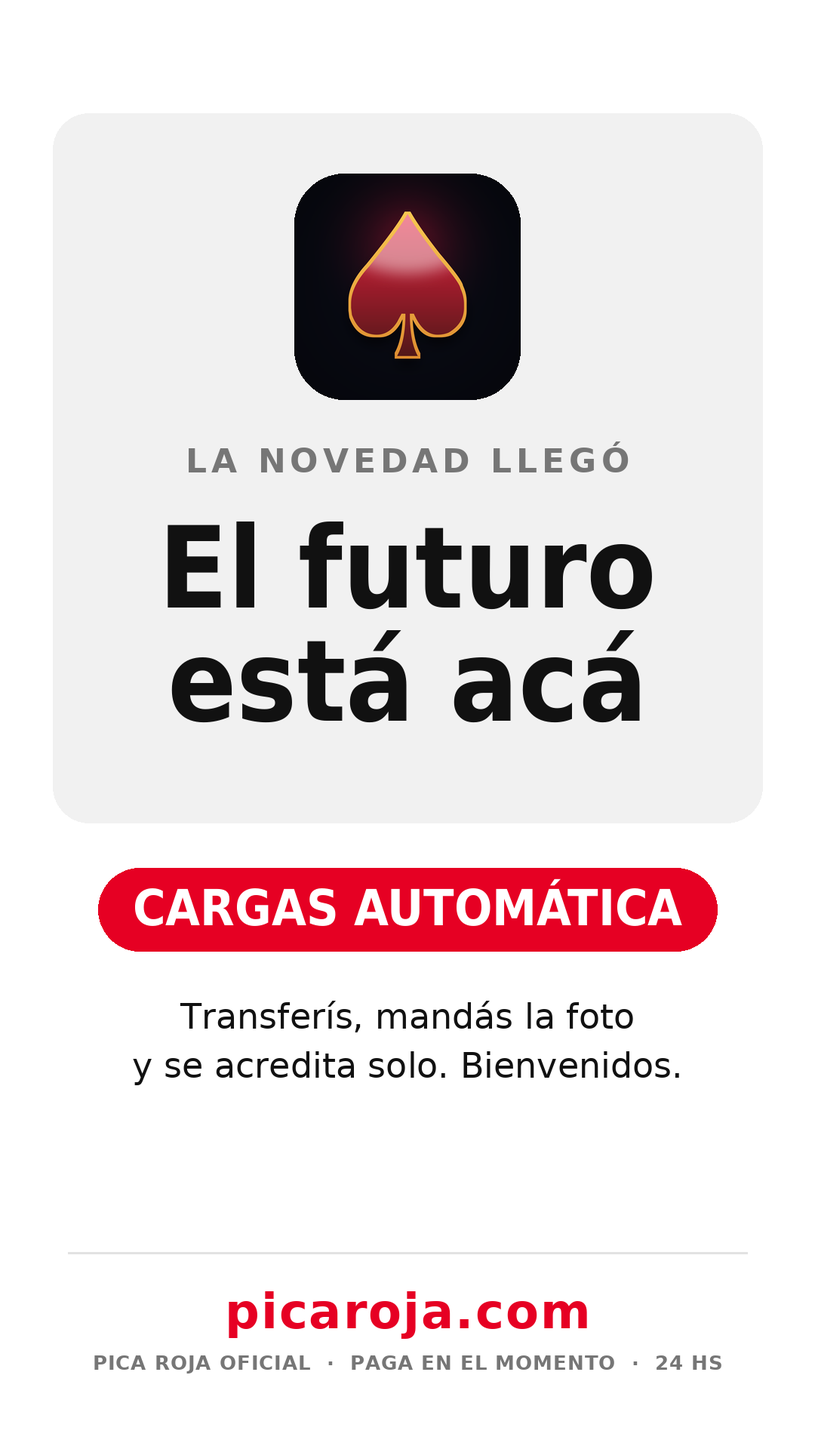
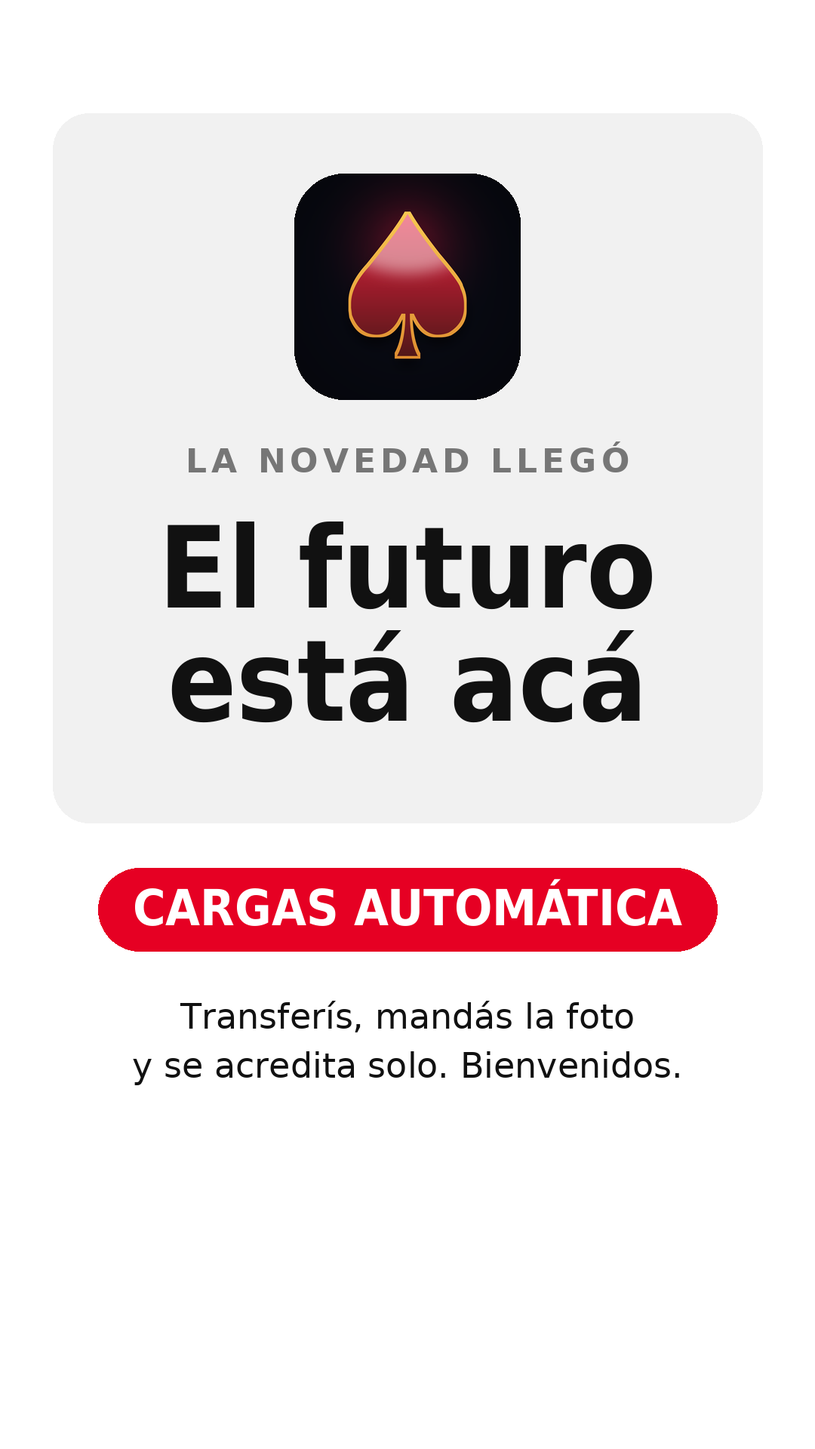
content(historias): imágenes rehechas sin pie interno (franja inferior libre), Soporte con Martín/Sofía/Agustina; visor con sólo el nombre arriba — WORKLOG #456, SW v325

Changed region(s): [[0.275, 0.875, 0.7333, 0.9688], [0.1222, 0.9375, 0.2444, 0.9688], [0.825, 0.9375, 0.8861, 0.9688]]

diff --git a/public/firebase-messaging-sw.js b/public/firebase-messaging-sw.js
@@ -34,7 +34,7 @@ try {
 // ============================================
 // CONFIGURACIÓN DE CACHÉ
 // ============================================
-const CACHE_VERSION = 'v324'; // v324: historias: logo + PICA ROJA arriba a la izquierda (Instagram), sello de abajo en blanco sin pildora (#455) // v323: barras de progreso de historias tipo Instagram (#454) // v322: historias tipo WhatsApp: foto completa, sello de marca al pie, sin bloque negro (#453) // v321: visor de historias: marca arriba, texto abajo sobre fondo negro desgastado sin pisar la foto (#452) // v320: modal 'Tu opinion' con el estilo de la app (#450) // v319: Menu facil con avatar + nombre desplegable (ver mas); sin 'GIROX - LA APP QUE PAGA' en la entrada (#448/#449) // v318: detalle de reembolsos en inicio solo con el % diario (#447) // v317: selector de reembolsos: tres botones rojos con letra blanca e iconos de linea (#446) // v316: iconos con mas presencia (trazo grueso, duotono, caja rojo claro) (#445) // v315: alerta del banco sin pausar si el panel lo configura asi (#443) // v314: alerta 'banco con fallas' en el retiro (#442) // v313: Inicio post-login con iconos de linea (entrada, menu facil, selector, instalar app) (#441) // v312: iconos de linea (Pinterest) en Info y Perfil en vez de emojis (#440) // v311: Info: texto de plataformas en su linea, solo Girox/Ganamos/Jugaygana en negrita (#439) // v310: Info: texto de 'La plataforma que quieras' en negrita (#438) // v309: 'Cerrar sesion' en Perfil tambien para diego294290 (#437) // v308: parte superior del inicio un poco mas abajo, centrada con la de abajo (#436) // v307: 'Pronto' en vez de 'Proximamente' en Elegi donde jugar (#435) // v306: fila prioritaria 'Carga automatica y atencion personalizada' arriba de los beneficios (#434) // v305: 'CARGAS Y PAGOS LAS 24 HS SIN LIMITES' bajo el titulo (#433) // v304: beneficios con texto completo en tres filas (VIP PICA ROJA, reembolsos diarios/semanales/mensuales, referidos) (#432) // v303: mas espacio entre bloques del inicio; 'Jugaygana' con J mayuscula (#431) // v302: inicio en exactamente una pantalla de telefono (sin scroll, opiniones con el alto sobrante), sin burbuja de Soporte (#430) // v301: inicio mas compacto para que las opiniones entren en la pantalla principal (#429) // v300: recuadro 'Elegi donde jugar' debajo de Registrarse (jugaygana en minuscula), sin linea de estrellas, opiniones visibles (#428) // v299: inicio solo 'Completa tu nombre para registrarte' + 'Registrarse ya'; sin olvide clave / soporte / ya tengo cuenta (#427) // v298: paso 'Te registraste con exito' con usuario y clave antes de entrar (#426) // v297: la entrada con nombre es LA forma de registro; sin 'Crear mi cuenta' (#425) // v296: ingreso con tarjetas de beneficios (VIP, reembolsos, elegi donde jugar, referidos) con iconos de linea (#424) // v295: Girox nunca 'Proximamente' en la fila del ingreso (#423) // v294: fila de las 3 plataformas en el ingreso, Ganamos y jugaygana 'Proximamente' (#423) // v293: entrada rapida automatica para quien llega por link de publicidad (#422) // v292: entrada rapida solo con el nombre cuando el registro esta desactivado en el panel (#421) // v291: boton de ingreso 'Iniciar sesion', mas chico (#420) // v290: ingreso mas compacto arriba, reseñas con comentario visible, burbuja de Soporte chica en la punta (#419) // v289: registro siempre visible (tambien con link de publicista), 'Olvide mi contraseña', registro = usuario + clave + telefono + SMS, 'Confirmar y entrar' (#418) // v288: ingreso como estaba (login visible + Crear mi cuenta), reseñas deslizandose, historias como anillo arriba a la derecha (#417) // v287: ingreso sin chips ni ticker; historias publicadas + opinion de la gente (reseña que rota) (#416) // v286: ingreso en UNA pantalla estilo registro de app (sin scroll, explicacion resumida, linea de confianza) (#415) // v285: ingreso como REGISTRO (SMS), soporte para visitantes (burbuja + panel), ticker sobrio con el final del nombre visible (#414) // v284: 'Cerrar sesion' al pie de Perfil solo para lalodj (#412) // v283: botones Comprobante aqui / Retirar premio a mitad y mitad sin desbordar (#409) // v282: Info: 'La plataforma que quieras' (texto nuevo, jugaygana en minuscula) (#407) // v281: Perfil: el link de la pagina va recto debajo del titulo, en una linea (#406) // v280: fueguito: requisito por MONTO cargado en N dias (no por cantidad de cargas) en textos del home y del modal (#405) // v279: Perfil reordenado (Canjear codigo arriba, Menu, Nocturno + Notificaciones, datos + Capturar, Fueguito, resto) y mas compacto (#404) // v278: etiquetas Telegram / Historias de la barra mas chicas, sin corte (#403) // v277: la barra 'Instala la app' pendiente ya no tapa Comprobante aqui / Retirar premio (#402) // v276: Soporte: la presentacion se va cuando el cliente ya escribio; cierre automatico a las 6 h sin respuesta y el chat arranca de cero para el (#401) // v275: Perfil: modo nocturno arriba con Activar/Desactivar, filas usuario/clave/pagina en una linea, Ocultar debajo de Copiar; nocturno: texto --p-inv sobre fondos negros (#399) // v274: modo nocturno solo dentro de Perfil, sin boton en la barra (#396) // v273: modo nocturno de la app (Perfil + barra, #392), Perfil con codigo de referido y clave visible (#393), ruleta sin probabilidades (#390), Retirar premio verde + 'Comprobante aqui' (#391), Info en tarjetas con titulo recuadrado (#394) // v272: 'Retirar premio' con minimo y 'pago automatico' afuera; textos de los botones editables // v271: chips de Soporte mandan solos; Cargar/Retirar responden con boton al sector // v270: plataformas de carga automatica en una fila de cuadrados // v269: codigo SMS en cada retiro // v268: pantalla de ingreso nueva (marca, servicio, reembolsos, plataformas, carga minima, resenas) // v267: pestanas de plataformas iguales (3 cuadrados) + Soporte independiente del chat viejo // v266: retiro minimo $10.000 configurable + 'pago automatico' en el modal de retiro // v265: JUGAYGANA como tercera plataforma (Proximamente) // v264: Soporte paralelo (chat nuevo desde hoy, respuestas firmadas por la persona de turno) // v263: carga automatica: aviso de comprobante duplicado, acuse 'recibimos tu comprobante', franja 'carga pendiente' y rechazo // v262: Soporte 100% soporte (sin cartel de carga automatica ni botones extra; bienvenida nueva) // v261: ruleta: como se desbloquea (carga minima), premio mayor 1 cada 1000, estado bloqueado // v260: Carga manual -> SOPORTE (Martin se presenta, chat con el estilo de la pagina) // v259: ruleta con el estilo nuevo + aviso 'promocion hasta diciembre' en reembolsos // v258: nombre de la app 'PICA ROJA oficial' + logo real de Telegram en la barra // v257: tema Pinterest (blanco, grises, rojo) en toda la app salvo Carga manual // v256: Info del servicio en un solo mensaje, sin app/notificaciones (quedan en Perfil) // v255: el selector facil/completo pregunta en cada arranque y tras 10 min afuera; boton 'Pasar al menu completo' // v254: MENU FACIL (selector al entrar + pantalla de 6 accesos grandes) // v253: al entrar a Carga manual el CBU aparece solo // v252: tarjeta CBU en el chat con 'Por favor enviar comprobante aqui' // v251: letras de la barra de arriba mas chicas, sin cortes // v250: fix endpoint del Telegram de la barra // v249: Telegram a la izquierda, colores en las puntas, 'Historias' mas chico // v248: HISTORIAS (anillo arriba a la derecha + visor) // v247: resenas: 'Deja tu opinion' fija y chica, el resto desliza // v246: Info del servicio con el reembolso diario // v245: tarjeta Reembolso del inicio con el % diario (25) // v244: icono nuevo (pica) + nombre CARGAS AUTOMATIC // v243: titulo/nombre de la app 'CARGAS AUTOMATICA' // v242: tarjeta del fueguito mas baja // v241: fotos del inicio mas grandes // v240: regla del fueguito en una linea // v239: 'Proximamente' visible debajo de Ganamos (tarjeta y pestana del Inicio) // v238: inicio sin puntitos ni etiqueta; boton de cargar abajo de la foto // v237: referidos 5% (texto desde el server) // v236: logo de Ganamos (pica violeta) + promedio de resenas con estrella parcial // v235: reembolso DIARIO de vuelta (25%), semanal 3%, mensual 1%, cartel NOVEDAD en Inicio // v234: JS/CSS network-first (los deploys se ven en la primera apertura); regla del fueguito arriba del modal // v233: fueguito: 'minimo 10 cargas entre racha y racha' visible aunque el server no mande el valor // v232: premios del fueguito x5 en los textos por defecto // v231: texto del fueguito: minimo 5 cargas entre racha y racha // v230: fueguito: la condicion se ve adentro del modal (estaba oculta), minimo 5 cargas por racha // v229: carga manual: avatar de asistente mujer y 'Escribi aqui' en el campo // v228: sin parpadeo del login con sesion guardada; verificacion general sin errores // v227: sin el boton 'Link casino aqui' en carga auto y manual // v226: regla del fueguito (minimo 10 cargas por racha, si no vuelve a 0) a la vista en la tarjeta // v225: carga auto: el panel scrollea adentro, los botones de abajo no se enciman // v224: boton rojo encima de la foto (sin reservar lugar) y sin leyenda abajo // v223: recuadro de fotos al espacio que sobra: Inicio sin deslizar, opiniones a la vista // v222: sin el boton LINK CASINO en el Inicio // v221: puntos del carrusel arriba del boton rojo (no detras de LINK CASINO) // v220: ajuste y centrado por modelo (chico/estandar/grande, tablet centrada, bajos, safe areas) en Inicio, carga auto y manual // v219: carga automatica ocupa toda la pantalla y escala en telefonos altos (Samsung A56 etc.) // v218: fotos del Inicio con la version pegada al link (sin cache viejo) // v217: fotos del Inicio con nombres nuevos (g1..g5) y en el orden pedido; sin fotos anteriores // v216: 'LINK CASINO AQUI · www.1girox.com' como boton en el Inicio y en carga auto/manual // v215: sin el boton 'Ver completas' en las fotos // v214: boton 'Link plataforma' abajo de carga auto y carga manual (abre el casino para jugar) // v213: fotos nuevas del carrusel del Inicio (5 grillas de juegos) // v212: fondo como estaba antes (se quitaron los cambios de tono #321/#325) // v211: fondo un poco mas oscuro y barra superior con el mismo fondo // v210: leyenda del carrusel = link de la plataforma (www.1girox.com) que abre aparte adentro de la app // v209: boton 'Ver completas / Achicar' en las fotos del Inicio (pantalla completa) // v208: fotos completas en el Inicio (recuadro con altura propia) y boton chiquito sobre el final de la foto // v207: fondo azul profundo (mas claridad), vidrio un poco mas claro // v206: boton de cargar en una linea, mas bajo // v205: etiqueta 'FOTO ILUSTRATIVA · aca no se juega' en cada foto y leyenda clara // v204: foto principal de la pagina completa de Girox primera en el carrusel, con recuadro fino tipo pantalla // v203: opiniones de jugadores con mas vida (vidrio, estrellas doradas, insignia de promedio) // v202: sin la linea 'Vista ilustrativa' en el Inicio // v201: boton grande 'Para cargar ahora mismo · apreta aqui' debajo de las fotos // v200: fotos del Inicio a todo el ancho con recuadro y fondo desenfocado // v199: tests tambien con la app instalada para el usuario de prueba // v198: Inicio con carrusel de fotos ilustrativas de Girox (cada 2 s) en vez de la pagina embebida // v197: numero de version visible en Perfil (app vNNN) // v196: con la app instalada no hay test ni para lalodj (funciona como app real) // v195: Inicio siempre al entrar; carga minima tambien en el paso 2 y en el cartel del chat // v194: cabecera del chat 'Carga manual' con asistente // v193: perfil con avatar (recuadro de usuario, selector de iconos, iconos de nivel que se desbloquean) // v192: recarga automatica al entrar una version nueva; tarjetas Girox/Ganamos compactas en carga auto; saldo con el numero abajo // v191: carga minima $5.000 siempre visible (linea en la tarjeta + boton), aun sin redeploy // v190: Girox siempre elegible (nunca 'Proximamente') // v189: Girox siempre seleccionable; Ganamos como estaba (pestaña abre su pagina) con etiqueta Proximamente // v188: carga minima $5.000 en el boton de comprobante y el paso 1 (configurable); iconos de casino discretos y patron tenue de fondo // v187: aviso premium 'la unica app que paga todo en el momento' en el Inicio; Ganamos visible como 'Proximamente' (no seleccionable hasta tener API) // v186: Jugar ahora abre la plataforma afuera con autologin y linea finita 'Volver a cargas'; tests solo para el usuario de prueba; textos segun plataformas habilitadas (Ganamos apagada) // v185: 'Adjuntar comprobante aqui'; un solo cartel (Jugar ahora + extra por instalar) y barra pendiente de punta a punta; fueguito del inicio como estaba, premios plegables y condicion abajo en el modal; niveles VIP abren la escalera (tambien en el test); sin Soporte en vivo en Perfil // v184: niveles VIP escalera 1win (19 niveles) con la plata que desbloquea cada nivel // v183: Info sin opiniones ni ruleta; nivel VIP al lado del saldo con la app instalada (+test); fueguito con barra de niveles y regla de cargas minimas // v182: oferta por instalar la app = % EXTRA sobre la carga (50%), 'cargarlo ahora' o 'despues de jugar' // v181: Informacion del servicio con el estilo de la barra de arriba (recuadros de vidrio, texto grande) // v180: sin globo flotante de soporte // v179: barra de arriba 'Carga auto' // v178: 'Recomendado' debajo de Girox // v177: carga gratis — 'la instalo despues' pinta el boton grande de abajo tambien en test y sin depender del server // v176: pasos 1 y 2 de 'Carga aca' en recuadros, compactos (sin scroll) // v175: carga GRATIS por instalar la app en la primera carga (hoja de oferta, boton grande pendiente, reclamo desde la app instalada, test) // v174: 'Carga aca' centrada con paso 2 (adjunta la foto abajo); boton 'Carga aqui (adjunta la foto aqui)' // v173: opiniones deslizan solas (pausa al tocar) // v172: carrusel de opiniones con 30 reseñas al azar por apertura // v171: vuelven las paginas embebidas al entrar (sin modo logo) // v170: Inicio en modo logo (sin cargar la web), 'Ver pagina' desde el 2º ingreso, texto explicativo grande con links, test de 2º ingreso // v169: nota 'vista ilustrativa · para cargar usa la barra de arriba' en el Inicio // v168: cartel 'Jugar ahora' al acreditarse la carga (abre la plataforma adentro de la app) + boton test chiquito en carga manual y automatica // v167: Perfil en estilo oscuro // v166: resenas discretas (sin fondo blanco) con 'Deja tu opinion' primero; sin aviso de verificar telefono // v165: toda la barra con el estilo del Inicio (iconos SVG, vidrio, corte diamantado); Fueguito diario arriba de la carga automatica // v164: carga automatica con alias+titular y explicacion de plataformas (sin Entrar); Fueguito diario entre Cargar y Retirar; cartel del chat corto 'Recomendable' + Ir a carga automatica // v163: Inicio moderno/futurista (sin retro); resenas tipo Google deslizantes al pie del Inicio; Perfil con usuario/clave/link protagonistas + capturar // v162: Inicio al centro, separado y retro; reembolso / ruleta / referidos arriba del Inicio; carga automatica sencilla // v161: barra de arriba Inicio / Carga automatica / Carga manual / Info / Perfil (usuario+clave, cambiar clave, notificaciones, canal, codigo, instalar, fueguito); sin botones abajo en la entrada // v160: pantalla de entrada — Girox abierto adentro, Ganamos para cambiar, Carga manual / Carga automatica // v159: chat estilo WhatsApp como pantalla principal + cartel 'Servicio completo' con menu deslizante (Ver todo) que despliega la app completa // v158: circulos de la cabecera mas chicos // v157: cabecera apenas mas baja // v156: franja del saldo a la mitad de alto // v155: Instalar app (IMPORTANTE) al lado del saldo; abajo Referidos + Como funciona en una linea // v154: app instalada → casino adentro con carga rapida en formato CARGA (descartable); navegador → aparte con barra Volver // v153: el casino se abre APARTE en /jugar.html con barra 'Volver a la app' (login por API; Ganamos su web; prueba = home publica) // v152: Android sin prompt — info con boton 'Apreta aca para abrir en Google Chrome' (link de acceso directo) // v151: bono de nivel VIP a reclamar con cartel de felicidades y eleccion de plataforma; home compactada en una pantalla; saldo arriba // v150: niveles VIP sin plata — solo nivel y porcentajes // v149: 'Recomendado' en rojo en el recuadro de Girox // v148: Info del servicio — app+notis en una linea arriba, titulo chico, ruleta plegada en vez de niveles VIP // v147: tarjeta de nivel VIP con barra de progreso y escalera desbloqueable debajo de Guarda tu acceso // v146: circulo de arriba 'Soporte aqui' con icono de chat (sin logo de Girox) // v145: Retirar premio en una linea, fila de acciones a la mitad de alto // v144: niveles VIP plegados debajo de reseñas en Info del servicio // v143: instalar app — Android con prompt instala directo, iPhone/otros ven los pasos, Instagram en Android abre Chrome; el botón dice qué va a pasar // v142: fix div sobrante de la tarjeta de carga; Retirar 'se retira automaticamente'; circulo de arriba restaura la burbuja // v141: tarjeta de carga sin paso 2; Cargar aqui dice adjuntar comprobante / se carga automaticamente // v140: prueba = página principal de cada casino; burbuja con ícono de chat y X adentro // v139: Probá las plataformas mejor presentado; modo prueba sin la carga rápida dentro del casino // v138: fila de reembolsos sin recortes + modal de reembolso simple estilo cambio de clave // v137: burbuja de soporte compacta (foto), se saca con X y queda arriba al lado del fueguito // v136: cobro de referidos desde la app, aviso de clave inicial, tarjetas de plataforma chicas con logo (Ganamos violeta) // v135: referidos — como funciona plegado, el resto en una pantalla // v134: fila Cargar aqui (adjuntar comprobante) + Retirar mi premio en rojo // v133: info del servicio — reseñas plegadas arriba, niveles VIP detallados abajo, una hoja centrada // v132: pruebas de plataforma y Ganamos SIEMPRE dentro de la app (recuadro embebido), nada de Chrome // v131: pruebas de plataforma (Girox/Ganamos en Chrome) dentro del soporte // v130: 'Guardá tu acceso a la app' plegable debajo de reembolsos con la captura adentro // v129: fueguito resumido (racha + reclamar + premios) // v128: '¿Dónde querés jugar?' arriba del CBU — tocar = elegir (queda fija), Entrar abre con sesión // v127: burbuja flotante 'Soporte en vivo aquí' (arrastrable, minimizable, abierta al entrar) en vez de la fila; campana y fueguito en los círculos de arriba // v126: info del servicio nueva (por qué elegirnos, reembolsos NOVEDAD, ruleta), reembolsos verdes 'Cobrá tu reembolso acá', ruleta del home, captura solo link/usuario/clave // v125: carga en 2 pasos (CBU → comprobante, acceso secundario) + RETIRAR verde grande con brillo // v124: link de la app completo en la tarjeta de carga // v123: rojo de marketing, arriba al mínimo, reembolsos a la mitad, plataforma FIJA, cómo funciona separado abajo, modales en formato nuevo // v122: barra de soporte sin cortes en pantallas angostas // v121: tema diamante/futurista (vidrio, cian/violeta, cortes diamantados, Montserrat) — chau serif // v120: cabecera de círculos (Canal/Info/Código/Instalar/Clave) sin menú desplegable, carga compacta, barra del casino con plataformas + volver al menú de cargas, estilo premium negro/dorado // v119: home limpia — chau bono por instalar la app, cómo funciona plegado arriba, barra inferior REFERIDOS / INSTALAR APP, explicación completa en el chat // v118: HOME 2.0 — carga automática al frente (CBU/alias/datos de acceso/captura), chat como SOPORTE arriba, plataformas para elegir dónde jugar, cómo funciona el servicio, reembolsos compactos // v117: multi-plataforma — botones "¿dónde querés jugar?" (Girox / Ganamos) y link externo en los mensajes de sistema // v116: Información del Servicio y mini-tarjeta muestran el % vigente del bono por instalar la app (chau 100% fijo)
+const CACHE_VERSION = 'v325'; // v325: historias rehechas sin pie interno (franja inferior libre), Soporte con los 3, arriba solo el nombre (#456) // v324: historias: logo + PICA ROJA arriba a la izquierda (Instagram), sello de abajo en blanco sin pildora (#455) // v323: barras de progreso de historias tipo Instagram (#454) // v322: historias tipo WhatsApp: foto completa, sello de marca al pie, sin bloque negro (#453) // v321: visor de historias: marca arriba, texto abajo sobre fondo negro desgastado sin pisar la foto (#452) // v320: modal 'Tu opinion' con el estilo de la app (#450) // v319: Menu facil con avatar + nombre desplegable (ver mas); sin 'GIROX - LA APP QUE PAGA' en la entrada (#448/#449) // v318: detalle de reembolsos en inicio solo con el % diario (#447) // v317: selector de reembolsos: tres botones rojos con letra blanca e iconos de linea (#446) // v316: iconos con mas presencia (trazo grueso, duotono, caja rojo claro) (#445) // v315: alerta del banco sin pausar si el panel lo configura asi (#443) // v314: alerta 'banco con fallas' en el retiro (#442) // v313: Inicio post-login con iconos de linea (entrada, menu facil, selector, instalar app) (#441) // v312: iconos de linea (Pinterest) en Info y Perfil en vez de emojis (#440) // v311: Info: texto de plataformas en su linea, solo Girox/Ganamos/Jugaygana en negrita (#439) // v310: Info: texto de 'La plataforma que quieras' en negrita (#438) // v309: 'Cerrar sesion' en Perfil tambien para diego294290 (#437) // v308: parte superior del inicio un poco mas abajo, centrada con la de abajo (#436) // v307: 'Pronto' en vez de 'Proximamente' en Elegi donde jugar (#435) // v306: fila prioritaria 'Carga automatica y atencion personalizada' arriba de los beneficios (#434) // v305: 'CARGAS Y PAGOS LAS 24 HS SIN LIMITES' bajo el titulo (#433) // v304: beneficios con texto completo en tres filas (VIP PICA ROJA, reembolsos diarios/semanales/mensuales, referidos) (#432) // v303: mas espacio entre bloques del inicio; 'Jugaygana' con J mayuscula (#431) // v302: inicio en exactamente una pantalla de telefono (sin scroll, opiniones con el alto sobrante), sin burbuja de Soporte (#430) // v301: inicio mas compacto para que las opiniones entren en la pantalla principal (#429) // v300: recuadro 'Elegi donde jugar' debajo de Registrarse (jugaygana en minuscula), sin linea de estrellas, opiniones visibles (#428) // v299: inicio solo 'Completa tu nombre para registrarte' + 'Registrarse ya'; sin olvide clave / soporte / ya tengo cuenta (#427) // v298: paso 'Te registraste con exito' con usuario y clave antes de entrar (#426) // v297: la entrada con nombre es LA forma de registro; sin 'Crear mi cuenta' (#425) // v296: ingreso con tarjetas de beneficios (VIP, reembolsos, elegi donde jugar, referidos) con iconos de linea (#424) // v295: Girox nunca 'Proximamente' en la fila del ingreso (#423) // v294: fila de las 3 plataformas en el ingreso, Ganamos y jugaygana 'Proximamente' (#423) // v293: entrada rapida automatica para quien llega por link de publicidad (#422) // v292: entrada rapida solo con el nombre cuando el registro esta desactivado en el panel (#421) // v291: boton de ingreso 'Iniciar sesion', mas chico (#420) // v290: ingreso mas compacto arriba, reseñas con comentario visible, burbuja de Soporte chica en la punta (#419) // v289: registro siempre visible (tambien con link de publicista), 'Olvide mi contraseña', registro = usuario + clave + telefono + SMS, 'Confirmar y entrar' (#418) // v288: ingreso como estaba (login visible + Crear mi cuenta), reseñas deslizandose, historias como anillo arriba a la derecha (#417) // v287: ingreso sin chips ni ticker; historias publicadas + opinion de la gente (reseña que rota) (#416) // v286: ingreso en UNA pantalla estilo registro de app (sin scroll, explicacion resumida, linea de confianza) (#415) // v285: ingreso como REGISTRO (SMS), soporte para visitantes (burbuja + panel), ticker sobrio con el final del nombre visible (#414) // v284: 'Cerrar sesion' al pie de Perfil solo para lalodj (#412) // v283: botones Comprobante aqui / Retirar premio a mitad y mitad sin desbordar (#409) // v282: Info: 'La plataforma que quieras' (texto nuevo, jugaygana en minuscula) (#407) // v281: Perfil: el link de la pagina va recto debajo del titulo, en una linea (#406) // v280: fueguito: requisito por MONTO cargado en N dias (no por cantidad de cargas) en textos del home y del modal (#405) // v279: Perfil reordenado (Canjear codigo arriba, Menu, Nocturno + Notificaciones, datos + Capturar, Fueguito, resto) y mas compacto (#404) // v278: etiquetas Telegram / Historias de la barra mas chicas, sin corte (#403) // v277: la barra 'Instala la app' pendiente ya no tapa Comprobante aqui / Retirar premio (#402) // v276: Soporte: la presentacion se va cuando el cliente ya escribio; cierre automatico a las 6 h sin respuesta y el chat arranca de cero para el (#401) // v275: Perfil: modo nocturno arriba con Activar/Desactivar, filas usuario/clave/pagina en una linea, Ocultar debajo de Copiar; nocturno: texto --p-inv sobre fondos negros (#399) // v274: modo nocturno solo dentro de Perfil, sin boton en la barra (#396) // v273: modo nocturno de la app (Perfil + barra, #392), Perfil con codigo de referido y clave visible (#393), ruleta sin probabilidades (#390), Retirar premio verde + 'Comprobante aqui' (#391), Info en tarjetas con titulo recuadrado (#394) // v272: 'Retirar premio' con minimo y 'pago automatico' afuera; textos de los botones editables // v271: chips de Soporte mandan solos; Cargar/Retirar responden con boton al sector // v270: plataformas de carga automatica en una fila de cuadrados // v269: codigo SMS en cada retiro // v268: pantalla de ingreso nueva (marca, servicio, reembolsos, plataformas, carga minima, resenas) // v267: pestanas de plataformas iguales (3 cuadrados) + Soporte independiente del chat viejo // v266: retiro minimo $10.000 configurable + 'pago automatico' en el modal de retiro // v265: JUGAYGANA como tercera plataforma (Proximamente) // v264: Soporte paralelo (chat nuevo desde hoy, respuestas firmadas por la persona de turno) // v263: carga automatica: aviso de comprobante duplicado, acuse 'recibimos tu comprobante', franja 'carga pendiente' y rechazo // v262: Soporte 100% soporte (sin cartel de carga automatica ni botones extra; bienvenida nueva) // v261: ruleta: como se desbloquea (carga minima), premio mayor 1 cada 1000, estado bloqueado // v260: Carga manual -> SOPORTE (Martin se presenta, chat con el estilo de la pagina) // v259: ruleta con el estilo nuevo + aviso 'promocion hasta diciembre' en reembolsos // v258: nombre de la app 'PICA ROJA oficial' + logo real de Telegram en la barra // v257: tema Pinterest (blanco, grises, rojo) en toda la app salvo Carga manual // v256: Info del servicio en un solo mensaje, sin app/notificaciones (quedan en Perfil) // v255: el selector facil/completo pregunta en cada arranque y tras 10 min afuera; boton 'Pasar al menu completo' // v254: MENU FACIL (selector al entrar + pantalla de 6 accesos grandes) // v253: al entrar a Carga manual el CBU aparece solo // v252: tarjeta CBU en el chat con 'Por favor enviar comprobante aqui' // v251: letras de la barra de arriba mas chicas, sin cortes // v250: fix endpoint del Telegram de la barra // v249: Telegram a la izquierda, colores en las puntas, 'Historias' mas chico // v248: HISTORIAS (anillo arriba a la derecha + visor) // v247: resenas: 'Deja tu opinion' fija y chica, el resto desliza // v246: Info del servicio con el reembolso diario // v245: tarjeta Reembolso del inicio con el % diario (25) // v244: icono nuevo (pica) + nombre CARGAS AUTOMATIC // v243: titulo/nombre de la app 'CARGAS AUTOMATICA' // v242: tarjeta del fueguito mas baja // v241: fotos del inicio mas grandes // v240: regla del fueguito en una linea // v239: 'Proximamente' visible debajo de Ganamos (tarjeta y pestana del Inicio) // v238: inicio sin puntitos ni etiqueta; boton de cargar abajo de la foto // v237: referidos 5% (texto desde el server) // v236: logo de Ganamos (pica violeta) + promedio de resenas con estrella parcial // v235: reembolso DIARIO de vuelta (25%), semanal 3%, mensual 1%, cartel NOVEDAD en Inicio // v234: JS/CSS network-first (los deploys se ven en la primera apertura); regla del fueguito arriba del modal // v233: fueguito: 'minimo 10 cargas entre racha y racha' visible aunque el server no mande el valor // v232: premios del fueguito x5 en los textos por defecto // v231: texto del fueguito: minimo 5 cargas entre racha y racha // v230: fueguito: la condicion se ve adentro del modal (estaba oculta), minimo 5 cargas por racha // v229: carga manual: avatar de asistente mujer y 'Escribi aqui' en el campo // v228: sin parpadeo del login con sesion guardada; verificacion general sin errores // v227: sin el boton 'Link casino aqui' en carga auto y manual // v226: regla del fueguito (minimo 10 cargas por racha, si no vuelve a 0) a la vista en la tarjeta // v225: carga auto: el panel scrollea adentro, los botones de abajo no se enciman // v224: boton rojo encima de la foto (sin reservar lugar) y sin leyenda abajo // v223: recuadro de fotos al espacio que sobra: Inicio sin deslizar, opiniones a la vista // v222: sin el boton LINK CASINO en el Inicio // v221: puntos del carrusel arriba del boton rojo (no detras de LINK CASINO) // v220: ajuste y centrado por modelo (chico/estandar/grande, tablet centrada, bajos, safe areas) en Inicio, carga auto y manual // v219: carga automatica ocupa toda la pantalla y escala en telefonos altos (Samsung A56 etc.) // v218: fotos del Inicio con la version pegada al link (sin cache viejo) // v217: fotos del Inicio con nombres nuevos (g1..g5) y en el orden pedido; sin fotos anteriores // v216: 'LINK CASINO AQUI · www.1girox.com' como boton en el Inicio y en carga auto/manual // v215: sin el boton 'Ver completas' en las fotos // v214: boton 'Link plataforma' abajo de carga auto y carga manual (abre el casino para jugar) // v213: fotos nuevas del carrusel del Inicio (5 grillas de juegos) // v212: fondo como estaba antes (se quitaron los cambios de tono #321/#325) // v211: fondo un poco mas oscuro y barra superior con el mismo fondo // v210: leyenda del carrusel = link de la plataforma (www.1girox.com) que abre aparte adentro de la app // v209: boton 'Ver completas / Achicar' en las fotos del Inicio (pantalla completa) // v208: fotos completas en el Inicio (recuadro con altura propia) y boton chiquito sobre el final de la foto // v207: fondo azul profundo (mas claridad), vidrio un poco mas claro // v206: boton de cargar en una linea, mas bajo // v205: etiqueta 'FOTO ILUSTRATIVA · aca no se juega' en cada foto y leyenda clara // v204: foto principal de la pagina completa de Girox primera en el carrusel, con recuadro fino tipo pantalla // v203: opiniones de jugadores con mas vida (vidrio, estrellas doradas, insignia de promedio) // v202: sin la linea 'Vista ilustrativa' en el Inicio // v201: boton grande 'Para cargar ahora mismo · apreta aqui' debajo de las fotos // v200: fotos del Inicio a todo el ancho con recuadro y fondo desenfocado // v199: tests tambien con la app instalada para el usuario de prueba // v198: Inicio con carrusel de fotos ilustrativas de Girox (cada 2 s) en vez de la pagina embebida // v197: numero de version visible en Perfil (app vNNN) // v196: con la app instalada no hay test ni para lalodj (funciona como app real) // v195: Inicio siempre al entrar; carga minima tambien en el paso 2 y en el cartel del chat // v194: cabecera del chat 'Carga manual' con asistente // v193: perfil con avatar (recuadro de usuario, selector de iconos, iconos de nivel que se desbloquean) // v192: recarga automatica al entrar una version nueva; tarjetas Girox/Ganamos compactas en carga auto; saldo con el numero abajo // v191: carga minima $5.000 siempre visible (linea en la tarjeta + boton), aun sin redeploy // v190: Girox siempre elegible (nunca 'Proximamente') // v189: Girox siempre seleccionable; Ganamos como estaba (pestaña abre su pagina) con etiqueta Proximamente // v188: carga minima $5.000 en el boton de comprobante y el paso 1 (configurable); iconos de casino discretos y patron tenue de fondo // v187: aviso premium 'la unica app que paga todo en el momento' en el Inicio; Ganamos visible como 'Proximamente' (no seleccionable hasta tener API) // v186: Jugar ahora abre la plataforma afuera con autologin y linea finita 'Volver a cargas'; tests solo para el usuario de prueba; textos segun plataformas habilitadas (Ganamos apagada) // v185: 'Adjuntar comprobante aqui'; un solo cartel (Jugar ahora + extra por instalar) y barra pendiente de punta a punta; fueguito del inicio como estaba, premios plegables y condicion abajo en el modal; niveles VIP abren la escalera (tambien en el test); sin Soporte en vivo en Perfil // v184: niveles VIP escalera 1win (19 niveles) con la plata que desbloquea cada nivel // v183: Info sin opiniones ni ruleta; nivel VIP al lado del saldo con la app instalada (+test); fueguito con barra de niveles y regla de cargas minimas // v182: oferta por instalar la app = % EXTRA sobre la carga (50%), 'cargarlo ahora' o 'despues de jugar' // v181: Informacion del servicio con el estilo de la barra de arriba (recuadros de vidrio, texto grande) // v180: sin globo flotante de soporte // v179: barra de arriba 'Carga auto' // v178: 'Recomendado' debajo de Girox // v177: carga gratis — 'la instalo despues' pinta el boton grande de abajo tambien en test y sin depender del server // v176: pasos 1 y 2 de 'Carga aca' en recuadros, compactos (sin scroll) // v175: carga GRATIS por instalar la app en la primera carga (hoja de oferta, boton grande pendiente, reclamo desde la app instalada, test) // v174: 'Carga aca' centrada con paso 2 (adjunta la foto abajo); boton 'Carga aqui (adjunta la foto aqui)' // v173: opiniones deslizan solas (pausa al tocar) // v172: carrusel de opiniones con 30 reseñas al azar por apertura // v171: vuelven las paginas embebidas al entrar (sin modo logo) // v170: Inicio en modo logo (sin cargar la web), 'Ver pagina' desde el 2º ingreso, texto explicativo grande con links, test de 2º ingreso // v169: nota 'vista ilustrativa · para cargar usa la barra de arriba' en el Inicio // v168: cartel 'Jugar ahora' al acreditarse la carga (abre la plataforma adentro de la app) + boton test chiquito en carga manual y automatica // v167: Perfil en estilo oscuro // v166: resenas discretas (sin fondo blanco) con 'Deja tu opinion' primero; sin aviso de verificar telefono // v165: toda la barra con el estilo del Inicio (iconos SVG, vidrio, corte diamantado); Fueguito diario arriba de la carga automatica // v164: carga automatica con alias+titular y explicacion de plataformas (sin Entrar); Fueguito diario entre Cargar y Retirar; cartel del chat corto 'Recomendable' + Ir a carga automatica // v163: Inicio moderno/futurista (sin retro); resenas tipo Google deslizantes al pie del Inicio; Perfil con usuario/clave/link protagonistas + capturar // v162: Inicio al centro, separado y retro; reembolso / ruleta / referidos arriba del Inicio; carga automatica sencilla // v161: barra de arriba Inicio / Carga automatica / Carga manual / Info / Perfil (usuario+clave, cambiar clave, notificaciones, canal, codigo, instalar, fueguito); sin botones abajo en la entrada // v160: pantalla de entrada — Girox abierto adentro, Ganamos para cambiar, Carga manual / Carga automatica // v159: chat estilo WhatsApp como pantalla principal + cartel 'Servicio completo' con menu deslizante (Ver todo) que despliega la app completa // v158: circulos de la cabecera mas chicos // v157: cabecera apenas mas baja // v156: franja del saldo a la mitad de alto // v155: Instalar app (IMPORTANTE) al lado del saldo; abajo Referidos + Como funciona en una linea // v154: app instalada → casino adentro con carga rapida en formato CARGA (descartable); navegador → aparte con barra Volver // v153: el casino se abre APARTE en /jugar.html con barra 'Volver a la app' (login por API; Ganamos su web; prueba = home publica) // v152: Android sin prompt — info con boton 'Apreta aca para abrir en Google Chrome' (link de acceso directo) // v151: bono de nivel VIP a reclamar con cartel de felicidades y eleccion de plataforma; home compactada en una pantalla; saldo arriba // v150: niveles VIP sin plata — solo nivel y porcentajes // v149: 'Recomendado' en rojo en el recuadro de Girox // v148: Info del servicio — app+notis en una linea arriba, titulo chico, ruleta plegada en vez de niveles VIP // v147: tarjeta de nivel VIP con barra de progreso y escalera desbloqueable debajo de Guarda tu acceso // v146: circulo de arriba 'Soporte aqui' con icono de chat (sin logo de Girox) // v145: Retirar premio en una linea, fila de acciones a la mitad de alto // v144: niveles VIP plegados debajo de reseñas en Info del servicio // v143: instalar app — Android con prompt instala directo, iPhone/otros ven los pasos, Instagram en Android abre Chrome; el botón dice qué va a pasar // v142: fix div sobrante de la tarjeta de carga; Retirar 'se retira automaticamente'; circulo de arriba restaura la burbuja // v141: tarjeta de carga sin paso 2; Cargar aqui dice adjuntar comprobante / se carga automaticamente // v140: prueba = página principal de cada casino; burbuja con ícono de chat y X adentro // v139: Probá las plataformas mejor presentado; modo prueba sin la carga rápida dentro del casino // v138: fila de reembolsos sin recortes + modal de reembolso simple estilo cambio de clave // v137: burbuja de soporte compacta (foto), se saca con X y queda arriba al lado del fueguito // v136: cobro de referidos desde la app, aviso de clave inicial, tarjetas de plataforma chicas con logo (Ganamos violeta) // v135: referidos — como funciona plegado, el resto en una pantalla // v134: fila Cargar aqui (adjuntar comprobante) + Retirar mi premio en rojo // v133: info del servicio — reseñas plegadas arriba, niveles VIP detallados abajo, una hoja centrada // v132: pruebas de plataforma y Ganamos SIEMPRE dentro de la app (recuadro embebido), nada de Chrome // v131: pruebas de plataforma (Girox/Ganamos en Chrome) dentro del soporte // v130: 'Guardá tu acceso a la app' plegable debajo de reembolsos con la captura adentro // v129: fueguito resumido (racha + reclamar + premios) // v128: '¿Dónde querés jugar?' arriba del CBU — tocar = elegir (queda fija), Entrar abre con sesión // v127: burbuja flotante 'Soporte en vivo aquí' (arrastrable, minimizable, abierta al entrar) en vez de la fila; campana y fueguito en los círculos de arriba // v126: info del servicio nueva (por qué elegirnos, reembolsos NOVEDAD, ruleta), reembolsos verdes 'Cobrá tu reembolso acá', ruleta del home, captura solo link/usuario/clave // v125: carga en 2 pasos (CBU → comprobante, acceso secundario) + RETIRAR verde grande con brillo // v124: link de la app completo en la tarjeta de carga // v123: rojo de marketing, arriba al mínimo, reembolsos a la mitad, plataforma FIJA, cómo funciona separado abajo, modales en formato nuevo // v122: barra de soporte sin cortes en pantallas angostas // v121: tema diamante/futurista (vidrio, cian/violeta, cortes diamantados, Montserrat) — chau serif // v120: cabecera de círculos (Canal/Info/Código/Instalar/Clave) sin menú desplegable, carga compacta, barra del casino con plataformas + volver al menú de cargas, estilo premium negro/dorado // v119: home limpia — chau bono por instalar la app, cómo funciona plegado arriba, barra inferior REFERIDOS / INSTALAR APP, explicación completa en el chat // v118: HOME 2.0 — carga automática al frente (CBU/alias/datos de acceso/captura), chat como SOPORTE arriba, plataformas para elegir dónde jugar, cómo funciona el servicio, reembolsos compactos // v117: multi-plataforma — botones "¿dónde querés jugar?" (Girox / Ganamos) y link externo en los mensajes de sistema // v116: Información del Servicio y mini-tarjeta muestran el % vigente del bono por instalar la app (chau 100% fijo)
 // v115: // v115: ruleta diaria con premios en % y tabla de probabilidades + bonos pendientes se aplican solos en la carga + sin bono de bienvenida para registros manuales
 // v114: // v114: el cartel del bono por instalar la app toma el % y los textos del server (editables en COMANDOS) — chau 100% fijo
 // v113: // v113: REEMBOLSO ACUMULATIVO de por vida en el perfil (tarjeta + reclamar + actualizar) — ESPEC-REEMBOLSO-1GIROX

diff --git a/server.js b/server.js
@@ -11732,9 +11732,9 @@ async function initializeData() {
       // #371: tres historias con el estilo nuevo (blanco / rojo), con picaroja.com al pie.
       const seedStories = [
         ['/images/stories/pin-1.png', '🆕 La novedad llegó · El futuro está acá · CARGAS AUTOMÁTICA · picaroja.com'],
-        ['/images/stories/pin-2.jpg', '🎰 Todos los slots que buscás · Cargá y jugá en minutos · picaroja.com'],
+        ['/images/stories/pin-2.png', '🎰 Todos los slots que buscás · Cargá y jugá en minutos · picaroja.com'], // #456: png sin pie interno
         ['/images/stories/pin-3.png', '⚡ Carga automática en 3 pasos: transferís, mandás la foto, se acredita solo · picaroja.com'],
-        ['/images/stories/pin-4.png', '💬 Cualquier duda, consulta o problema, hablá con Soporte: Martín, Sofía y Agustina te responden a los minutos. ¡Gracias por confiar en PICA ROJA!'] // #373/#451
+        ['/images/stories/pin-4.png', '💬 Cualquier duda, consulta o problema, hablá con Soporte: Martín, Sofía y Agustina te responden a los minutos. ¡Gracias por confiar en PICA ROJA!'] // #373/#451/#456: imagen con los 3 de Soporte
       ];
       for (let i = 0; i < seedStories.length; i++) {
         const now = new Date(Date.now() + i * 1000);

diff --git a/public/index.html b/public/index.html
@@ -2329,7 +2329,7 @@
                     <div class="pf-userlvl" id="pfUserLvl">Jugador</div>
                     <div class="pf-userhint">Tocá el avatar para elegir tu ícono · los de nivel se desbloquean al subir</div>
                     <!-- #309: versión visible de la app (mismo número que CACHE_VERSION del SW; se bumpea junto) -->
-                    <div class="pf-build" id="appBuildTag">app v324</div>
+                    <div class="pf-build" id="appBuildTag">app v325</div>
                 </div>
             </div>
             <!-- #270 (owner): predominancia a usuario, contraseña y página de la app + botón de captura. -->

diff --git a/public/css/pin.css b/public/css/pin.css
@@ -1250,4 +1250,6 @@ html[data-theme="dark"] .lg-fi, html[data-theme="dark"] .pi, html[data-theme="da
 .st-brand-foot img { width: 40px; height: 40px; border: 2px solid #fff; background: #000; }
 .st-brand-foot b { color: #fff !important; font-size: 15px; text-shadow: 0 1px 8px rgba(0, 0, 0, .8); }
 .st-brand-foot small { color: #fff !important; font-weight: 700; text-shadow: 0 1px 8px rgba(0, 0, 0, .8); }
+/* ── #456 (owner): arriba sólo el nombre (sin logo) ── */
+.story-viewer .st-head .st-logo { display: none !important; }
 

diff --git a/WORKLOG.md b/WORKLOG.md
@@ -8,6 +8,22 @@
 
 ## Sesión 2026-10-18
 
+### 456. 📖 Historias rehechas de 0: sin pie interno (franja inferior libre), Soporte con los 3, republicadas con horario nuevo · arriba sólo el nombre — SW v325
+**Pedido (owner, con captura):** "cambiá las fotos y dejalas hasta donde aparece esta parte inferior, que no se superponga
+nada, actualizá las fotos de 0; borrar y publicar con horario actualizado; el logo arriba sacalo, dejá sólo el nombre; la
+foto de Soporte actualizala con los 3".
+**Qué se hizo:**
+- **Imágenes** (1080×1920, `public/images/stories/pin-1..4.png`; pin-2 pasa de .jpg a .png): se recortó el pie interno
+  (línea + picaroja.com + leyenda) y el contenido termina ≥290 px antes del borde inferior, que queda blanco para el sello de
+  marca del visor. pin-4 se dibujó de nuevo con PIL: tres avatares con auriculares (Martín, Sofía, Agustina), "EQUIPO DE
+  SOPORTE", burbuja "¡Hola! Somos Martín, Sofía y Agustina…", "Hablá con Soporte", "RESPONDE A LOS MINUTOS", "Gracias por
+  confiar en PICA ROJA ❤".
+- **Publicación:** se borraron las 4 historias anteriores (`DELETE /api/admin/stories/:id`) y se crearon 4 nuevas
+  (`POST /api/admin/stories`, `mediaUrl …?v=2` para saltar la caché, 72 h) → horario actualizado.
+- **Visor:** arriba sólo "PICA ROJA" + "hace N h" (el logo se quitó); el sello con logo queda abajo (#455). Seed del boot
+  actualizado a pin-2.png.
+**Archivos:** `public/images/stories/*`, `server.js`, `public/css/pin.css`, `public/index.html`, `public/firebase-messaging-sw.js`.
+
 ### 455. 📖 Historias: logo + PICA ROJA arriba a la izquierda (Instagram) · sello de abajo en blanco, sin píldora — SW v324
 **Pedido (owner, con captura):** "poné el logo de la página en la punta y PICA ROJA como para que se vea tipo historias; en
 las fotos, el texto abajo de PICA ROJA con el logo dejalo en blanco".
